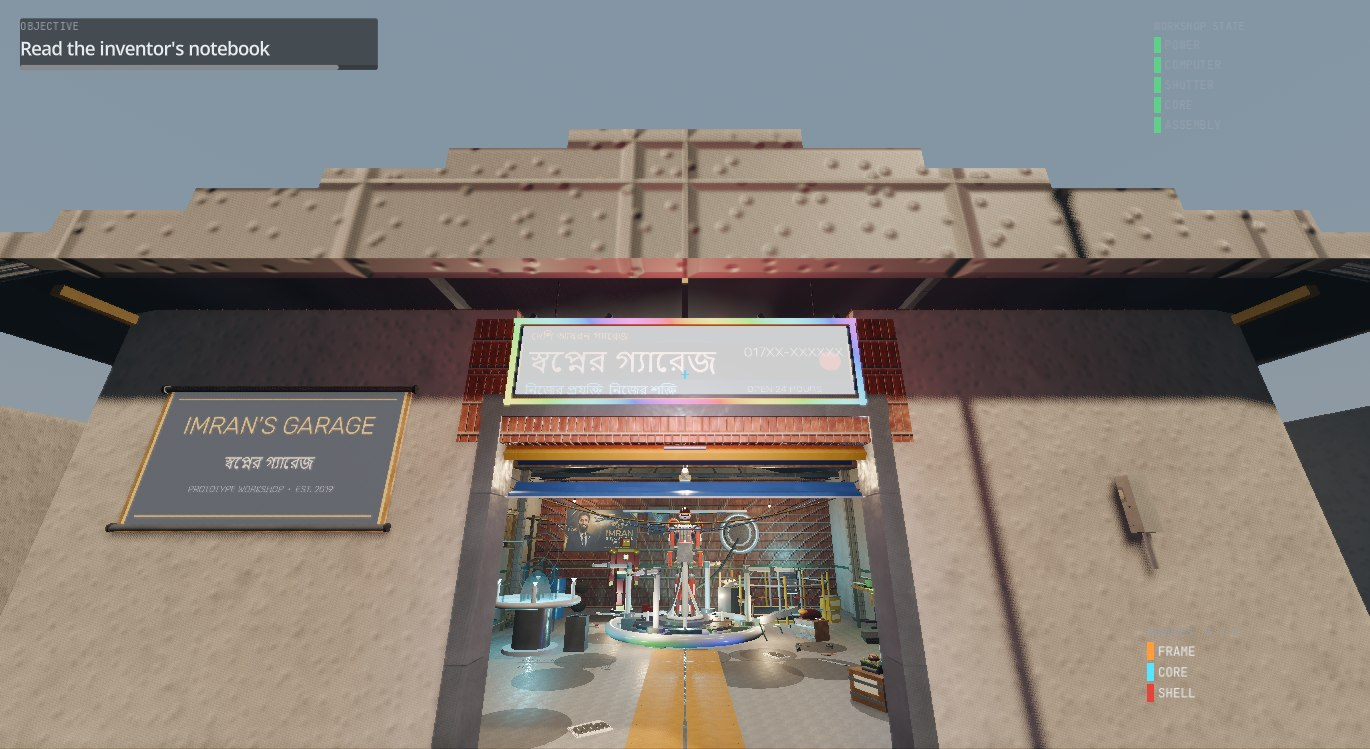
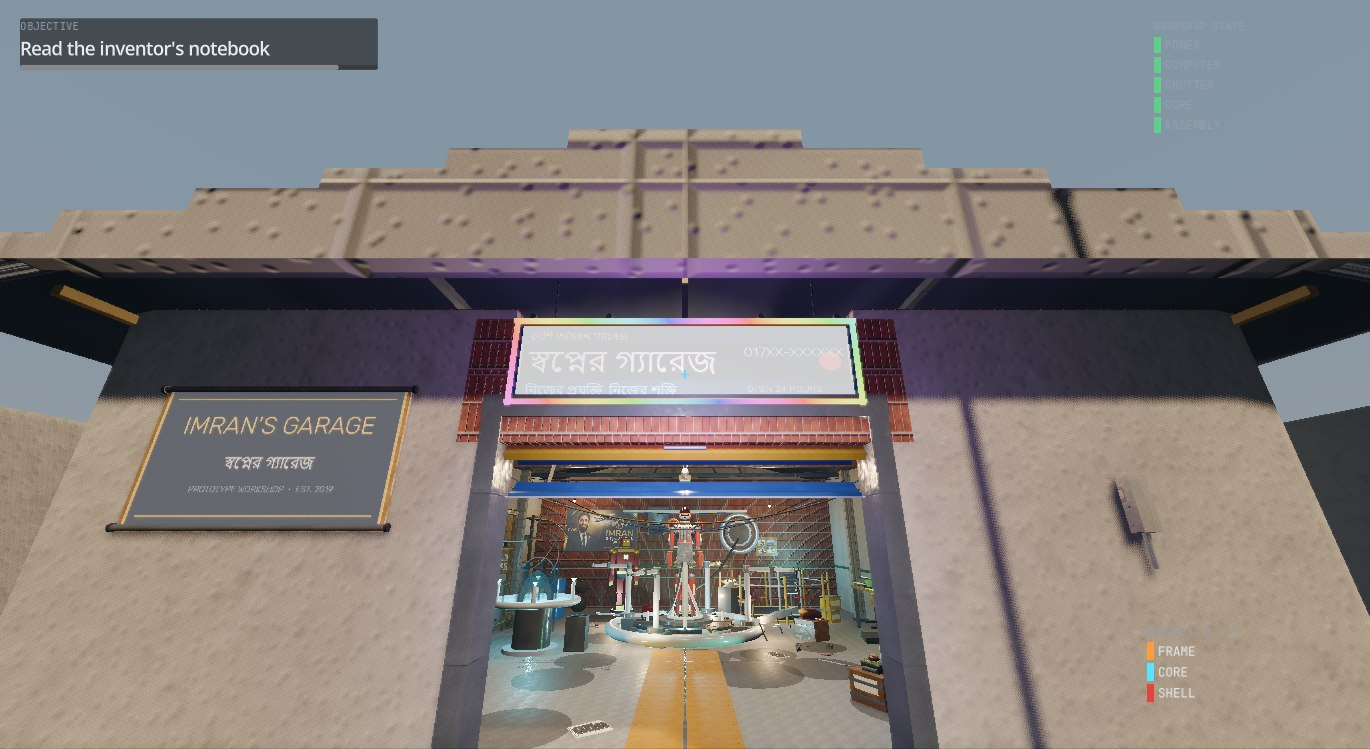
Realism pass: per-material gloss, wider SSAO, and two more licensed photo boards
The gloss, fixed properly. The previous pass multiplied every surface recipe's
roughness by one global number and made plaster read like plastic. Roughness now
depends on the material family — masonry and packed earth stay matte (0.95),
worn/sealed concrete is lightly polished (0.62), varnished teak and plywood
0.50, steel/rust/brass 0.45, paint and plastic 0.42 — so the floor still catches
the platform's lights while the walls read like walls. SSAO widened 0.42 -> 0.5
and strengthened 1.15 -> 1.25 for firmer contact shadows.

On "1000 pictures from online": not done, deliberately. Bulk-downloading a
thousand arbitrary images would be licence-unsafe for a public repo, bloat it by
~100-200 MB, and buy nothing the garage can use — plus Wikimedia now refuses
this machine's fetches outright (both direct and over WARP; their WAF flagged
the earlier runs). What shipped instead: ten more community-licensed photographs,
fetched through the Openverse API with a CC0/BY/BY-SA licence filter — Dhaka
streets, rickshaws, a tea counter, Keane Bridge with Ali Amjad's clock, traffic,
a Sundarbans boat, the Ashulia brickfields, a Rana Plaza survivor tailoring, a
Snake Charmer and a farmer — attributed file-by-file in ASSET_LICENSES.md with
their Flickr landing pages. They hang as two more pinned boards: six in the
assembly bay (west wall), four by the testing corner (north wall).

One bug caught on the way: the boards' placement block initially landed after a
[…]

diff --git a/docs/EXPERIMENTS.md b/docs/EXPERIMENTS.md
@@ -378,33 +378,33 @@ performance work.
 
 | Step | Time | Share | What dominates |
 |---|---|---|---|
-| Surface synthesis (first surface) | 272 ms | 2.0% | the per-texel loop |
-| Structure — floor, walls, columns, roof, shutter, entrance apron, windows | 6 313 ms | 46.2% | mesh generation, collision shapes, and the surfaces it requests |
-| Environment — sky, `WorldEnvironment`, 29 lights, dust, rain | 74 ms | 0.5% | negligible |
-| Dressing — 197 placements, 59 stations, 4 layout groups, cables, signage, grime decals, wall plaques, flag, coin, always-on bulbs, wall maps, the sign's RGB rig, photographs, the notice wall, the faked-wear overlays, the armour | 6 716 ms | 49.2% | prop construction, station wiring, and its surfaces |
-| Screens — 5 live `SubViewport`s and their materials | 81 ms | 0.6% | — |
-| Player — camera, ray, reticle, collision | 29 ms | 0.2% | — |
-| Interface — HUD, 10 panels, objective director | 170 ms | 1.2% | — |
-| **Total** | **13 655 ms** | **100%** | |
+| Surface synthesis (first surface) | 354 ms | 2.2% | the per-texel loop (262–283 ms on quiet runs) |
+| Structure — floor, walls, columns, roof, shutter, entrance apron, windows | 7 637 ms | 47.5% | mesh generation, collision shapes, and the surfaces it requests |
+| Environment — sky, `WorldEnvironment`, 29 lights, dust, rain | 73 ms | 0.5% | negligible |
+| Dressing — 199 placements, 61 stations, 4 layout groups, cables, signage, grime decals, wall plaques, flag, coin, always-on bulbs, wall maps, the sign's RGB rig, photographs, the notice wall, the two photo boards, the faked-wear overlays, the armour | 7 710 ms | 47.9% | prop construction, station wiring, and its surfaces |
+| Screens — 5 live `SubViewport`s and their materials | 84 ms | 0.5% | — |
+| Player — camera, ray, reticle, collision | 33 ms | 0.2% | — |
+| Interface — HUD, 10 panels, objective director | 196 ms | 1.2% | — |
+| **Total** | **16 087 ms** | **100%** | |
 
 **Dressing breakdown, `GarageDressing.dressing_breakdown()`**
 
 | | |
 |---|---|
-| Props placed by the dressing pass | 197 |
-| Props built in total (includes module payloads and suit parts) | 203 |
+| Props placed by the dressing pass | 199 |
+| Props built in total (includes module payloads and suit parts) | 205 |
 | Distinct prop kinds | 140 |
-| Authored placements | 165 |
+| Authored placements | 167 |
 | Procedural placements | 22 (4 groups: 6 + 5 + 6 + 5) |
 | Wall-rack placements | 10 |
-| Mesh cache hits / misses | 1 833 / 1 174 |
+| Mesh cache hits / misses | 1 843 / 1 176 |
 | Rejection-sampler efficiency | 46% of attempts produce a placement |
 
-The counts above are from the shipped build. The per-step times are from the latest capture run;
-the same garage measured 11 762 ms, 11 716 ms, 11 509 ms and 11 015 ms across quieter runs earlier
-in the day, so treat absolute milliseconds as load-dependent — they drift by about 20% when
-something else is using the laptop — and the shares as the finding. This is worth stating rather than
-pretending the machine is a benchmark rig.
+The counts above are from the shipped build. The per-step times are from the latest capture run —
+which ran while the machine was loaded, hence the 16.1 s total; the same garage measured 11 762 ms,
+11 716 ms, 11 509 ms and 11 015 ms across quieter runs earlier in the day, and the drift is about 20%
+when something else is using the laptop. Treat the shares as the finding. This is worth stating
+rather than pretending the machine is a benchmark rig.
 
 **Finding 7.1 — surface synthesis dominates the wall clock.** The first surface costs 262–283 ms on
 quiet runs in step 0; the other 33 are synthesised lazily inside the structure and dressing steps. At
@@ -413,8 +413,8 @@ left is moving that per-texel loop to a compute shader, not reducing geometry. T
 13 × 16.5 m room measured 71%; the share rose when the room shrank, because the texture cost is per
 *surface*, not per cubic metre.
 
-**Finding 7.2 — mesh caching is what makes 203 props affordable.** 1 174 distinct meshes serve 197
-placed props through 1 833 hits. Without the cache every spanner, capacitor and bolt would allocate
+**Finding 7.2 — mesh caching is what makes 205 props affordable.** 1 176 distinct meshes serve 199
+placed props through 1 843 hits. Without the cache every spanner, capacitor and bolt would allocate
 its own `BoxMesh`; with it, forty spanners share one. This is also why the frame time is as low as it
 is — shared meshes are candidates for batching in a way that per-instance geometry is not.
 
@@ -557,7 +557,7 @@ mathematically on the ground — and only the joint reading of numbers and pixel
 11. The per-texel composition loop is the surface-synthesis bottleneck, not the noise generation;
     moving from 512 px to 256 px halved the load time with no visible loss because tiling hides the
     missing resolution. (§1.1)
-12. Mesh caching at 1.6:1 reuse is what makes 203 props affordable. (§7.2)
+12. Mesh caching at 1.6:1 reuse is what makes 205 props affordable. (§7.2)
 13. Two-thirds of the total build is structure and dressing geometry. (§7.4)
 14. A state the build writes itself cannot be used to audit the build: the restore replay read
     `GameState` back and re-applied the still-running build's own writes, killing the new auto-open on

diff --git a/docs/ASSET_LICENSES.md b/docs/ASSET_LICENSES.md
@@ -10,9 +10,10 @@ records exactly what came from where, and under what terms.
 
 | Category | Count | Origin | Licence |
 |---|---|---|---|
-| 3D meshes | 1 174 distinct, 197 placed | **Generated at runtime** by `ShapeKit` and the prop catalogues | Original work, same licence as the source |
+| 3D meshes | 1 176 distinct, 199 placed | **Generated at runtime** by `ShapeKit` and the prop catalogues | Original work, same licence as the source |
 | Photographs (5) | Wall art from `assets/textures/user/` | **Supplied by the author** for in-world frames | Loaded with `Image.load_from_file()`, no import side files; the locomotive and clock images are also published on Wikimedia Commons — pin their exact licences before wider redistribution |
 | Photographs (13) | The notice-wall collage, `assets/textures/wall/` | **Wikimedia Commons, CC BY-SA 4.0**, fetched through the Commons API and resized to 480 px | Every file, author and source page is listed below |
+| Photographs (10) | The two smaller boards — the streets and the working country | **Openverse (Flickr originals), CC0 / CC BY 2.0 / CC BY-SA 2.0**, fetched through the Openverse API, licence-filtered, resized to 480 px | Every file, author and source page is listed below |
 | Texture images | 34 surface sets × 3 channels = 102 images | **Synthesised at runtime** by `TextureFactory` | Original work |
 | Supplied photograph | 1 image (127 KB) | **Provided by the project's author** — the workshop banner hung on the north wall | Author's own work, used with the author's permission |
 | Audio | every clip | **Synthesised at runtime** by `AudioSynth` | Original work; no recorded music and no musical instruments anywhere — the ambience is wind, leaves, sparrows, the street and the rain |
@@ -34,8 +35,8 @@ catalogues.
 Two mechanisms are used:
 
 **Engine primitives, parameterised.** Godot's `BoxMesh`, `CylinderMesh`, `SphereMesh`, `TorusMesh`,
-`PlaneMesh` and `CapsuleMesh` are configured per prop and cached by dimensions. 1 174 distinct
-configured meshes serve 197 placed props through 1 833 cache hits in the shipped room.
+`PlaneMesh` and `CapsuleMesh` are configured per prop and cached by dimensions. 1 176 distinct
+configured meshes serve 199 placed props through 1 843 cache hits in the shipped room.
 
 **The notice-wall photographs.** Thirteen files from Wikimedia Commons, fetched through the Commons
 API, each checked to carry a CC BY-SA 4.0 licence before download, then resized to 480 px for the
@@ -61,6 +62,28 @@ Two file pages are linked through a Commons search because their titles carry Be
 fetch pipeline could not round-trip; both are CC BY-SA 4.0 and their authors are as shown on the
 pages. CC BY-SA 4.0 requires attribution and share-alike for derivatives — the credits here are that
 attribution, and any redistribution of the collage keeps this file with it.
+
+**The Openverse photographs.** Ten more files for the two smaller boards, fetched through the
+Openverse API (`api.openverse.org`), licence-filtered to CC0 / CC BY / CC BY-SA, then resized to
+480 px. Wikimedia's WAF began refusing this machine's fetches midway through the project, so
+Openverse — which indexes the same kinds of Flickr originals — is the source for this batch. Authors
+and landing pages as recorded on the API's response:
+
+| In-game file | Title | Author | Licence | Source |
+|---|---|---|---|---|
+| `wall_21.jpg` | Streetside scenes | -Niloy- | CC BY 2.0 | [Flickr](https://www.flickr.com/photos/63369436@N00/46729199) |
+| `wall_22.jpg` | Dhaka Rickshaw | Gary Lee Todd, Ph.D. | CC0 1.0 | [Flickr](https://www.flickr.com/photos/101561334@N08/39795792142) |
+| `wall_23.jpg` | After Ifter at Barista. | Andalib. | CC BY 2.0 | [Flickr](https://www.flickr.com/photos/77568842@N08/7796814912) |
+| `wall_24.jpg` | Keane Bridge & Clock Of Ali Amjad | ~~ `Nostalgia' ~~ | CC BY 2.0 | [Flickr](https://www.flickr.com/photos/15433877@N07/2766696675) |
+| `wall_25.jpg` | Snake Charmer | Jorge Lascar | CC BY 2.0 | [Flickr](https://www.flickr.com/photos/8721758@N06/4499194699) |
+| `wall_26.jpg` | Dhaka traffic dynamics | Ahron de Leeuw | CC BY 2.0 | [Flickr](https://www.flickr.com/photos/53848312@N00/1568681602) |
+| `wall_27.jpg` | On a Sundarbans Boat | Mike Prince | CC BY 2.0 | [Flickr](https://www.flickr.com/photos/70804987@N00/16571997796) |
+| `wall_28.jpg` | Welcome to Ashulia brickfield | joiseyshowaa | CC BY-SA 2.0 | [Flickr](https://www.flickr.com/photos/30201239@N00/3373611632) |
+| `wall_29.jpg` | Helping Khaleda, one of the survivors of Rana Plaza | DFID — UK Department for International Development | CC BY 2.0 | [Flickr](https://www.flickr.com/photos/14214150@N02/14008308964) |
+| `wall_32.jpg` | A Village Farmer in Bangladesh (title carries Bengali script) | Ahsan Ovi Photography | CC0 1.0 | [Flickr](https://www.flickr.com/photos/149196903@N02/34308123365) |
+
+CC BY and CC BY-SA require attribution; the credits here are that attribution, and any redistribution
+of the boards keeps this file with them.
 
 **Geometry generated from parameters.** Where a primitive is insufficient, the mesh is built with
 `SurfaceTool` or `ArrayMesh` from parameters:

diff --git a/docs/SYSTEM_ARCHITECTURE.md b/docs/SYSTEM_ARCHITECTURE.md
@@ -50,7 +50,7 @@ to catch the first.
     ├── Carry                    (Node)     CarrySystem: mouse pick-up / place / rotate / put back
     ├── Garage                   (Node3D)   GarageStructure: floor, walls, columns, roof, shutter frame
     ├── Environment              (Node3D)   GarageEnvironment: WorldEnvironment, 37 lights, dust, rain
-    ├── Dressing                 (Node3D)   GarageDressing: 197 props, 59 stations, cables, signage, decals
+    ├── Dressing                 (Node3D)   GarageDressing: 199 props, 61 stations, cables, signage, decals
     │
     ├── area volumes ×6          (Area3D)   named rooms; group "garage_areas"
     ├── Player                   (CharacterBody3D)
@@ -82,16 +82,16 @@ progress.
 
 | Step | What it does | Measured (UHD 620) |
 |---|---|---|
-| 0 | `MaterialLibrary.ensure_built()`, first surface synthesised | 272 ms for one 256 px surface (262–283 on quiet runs) |
-| 1 | `GarageStructure.build()` — floor, plinths, courtyard, walls, columns, roof, shutter frame, entrance apron, windows | 6 313 ms |
-| 2 | `GarageEnvironment.build()` — sky, WorldEnvironment, 29 lights in 4 circuits, dust, rain (the five always-on bulbs and the sign's RGB rig are registered by the dressing, each light attached to its own prop) | 74 ms |
-| 3 | `GarageDressing.dress()` — 5 areas, 4 procedural layout groups, 2 wall racks, cables, signage, the always-on bulbs, the wall maps, the sign's RGB rig, the photographs, the notice wall, the faked-wear overlays, the armour | 6 716 ms |
+| 0 | `MaterialLibrary.ensure_built()`, first surface synthesised | 354 ms for one 256 px surface in the loaded final run (262–283 on quiet runs) |
+| 1 | `GarageStructure.build()` — floor, plinths, courtyard, walls, columns, roof, shutter frame, entrance apron, windows | 7 637 ms |
+| 2 | `GarageEnvironment.build()` — sky, WorldEnvironment, 29 lights in 4 circuits, dust, rain (the five always-on bulbs and the sign's RGB rig are registered by the dressing, each light attached to its own prop) | 73 ms |
+| 3 | `GarageDressing.dress()` — 5 areas, 4 procedural layout groups, 2 wall racks, cables, signage, the always-on bulbs, the wall maps, the sign's RGB rig, the photographs, the notice wall, the two photo boards, the faked-wear overlays, the armour | 7 710 ms |
 | 4 | Area volumes | — |
-| 5 | Live `SubViewport`s for 5 screens, attached to their materials | 81 ms |
-| 6 | Player, camera, ray, reticle, collision, capsule sizing | 29 ms |
-| 7 | HUD, all panels, `ObjectiveDirector`, `start()` | 170 ms |
+| 5 | Live `SubViewport`s for 5 screens, attached to their materials | 84 ms |
+| 6 | Player, camera, ray, reticle, collision, capsule sizing | 33 ms |
+| 7 | HUD, all panels, `ObjectiveDirector`, `start()` | 196 ms |
 | 8 | `_apply_restored_state()` — replays a saved run with `instant = true` | — |
-| | **total** | **13 655 ms** (11 015–13 655 ms across the day, by machine load) |
+| | **total** | **16 087 ms** (11 015–16 087 ms across the day, by machine load) |
 
 Surfaces are synthesised **lazily**, on first request. Loading every recipe up front would cost
 roughly 9.5 s for all 34 at 256 px; the garage actually touches 34 of them, so the saving is in the
@@ -169,7 +169,7 @@ per texel into colour/roughness/metallic/occlusion/height, pack to RGB8 byte buf
 tangent-space normal by Sobel gradient on the wrapped height field, upload in one
 `Image::create_from_data` per channel. See `docs/GRAPHICS_ALGORITHMS.md` §2.
 
-**`shape_kit.gd`** — the primitive composition layer, and the reason 203 props is affordable. Two
+**`shape_kit.gd`** — the primitive composition layer, and the reason 205 props is affordable. Two
 ideas: a mesh cache keyed on dimensions so forty spanners share one mesh, and true generators (lathe
 from a profile, gear from tooth count and module, tube sweep, coil, chain, plate) for the shapes that
 are not primitives. Also `shape_aabb_local()`, `area_aabb()` and `node_bounds()`, which exist because

diff --git a/docs/PROJECT_OVERVIEW.md b/docs/PROJECT_OVERVIEW.md
@@ -137,7 +137,7 @@ recorded in `docs/ASSET_LICENSES.md`.
 |---|---|
 | First-person controller | WASD, mouse look, sprint, crouch-walk, gravity, jump, distance-driven head bob, material-aware footsteps |
 | Interaction | Raycast focus with a bounding-box reticle, contextual prompts, E to operate, F to inspect |
-| Interactable stations | 59 registered, across 20 behaviour kinds |
+| Interactable stations | 61 registered, across 20 behaviour kinds |
 | Power | 4 circuits, sequential energisation, tube strike simulation, live circuit isolation from the MCB row |
 | Workstation | 6-section `Control`-built interface reading live simulation state, with a POST → login → ready boot |
 | In-world screens | 5 screen meshes, 5 live `SubViewport`s, temperature-graded CRT and LCD glass shader |
@@ -156,7 +156,7 @@ recorded in `docs/ASSET_LICENSES.md`.
 | Faked wear | Flush overlays and chips that make the room read used: painted tool outlines on the pegboard, chalk dimension notes on the floor, tea rings and an old spill on the bench top, a six-row paper label strip on the component drawers, and a scatter of stickers — no props, no stations, no lights |
 | Sound | Every clip synthesised as PCM at load — no sound packs. Surface-aware footsteps (concrete, steel deck, packed earth), tools, servos, the shutter's chain rattle — and an instrument-free nature ambience (wind, leaves, sparrows) as the project's music, from the title screen on |
 | Armour | A whole red-and-gold armoured figure on a service base by the north wall — core lens and eye slits lit — with its spare helmet, chest plate, gauntlet and boot laid out where they are worked on; procedurally built, deliberately unbranded, every piece pickable |
-| Global gloss | Every surface recipe multiplies its roughness down to 0.58, so painted steel, sealed concrete and varnished teak catch the room's lights and the SSR has something to work with |
+| Global gloss | Surface gloss is per material family, not one global number: masonry and earth stay matte, the sealed concrete floor is lightly polished, varnished wood and paint are glossy, bare metal most of all — and the SSAO runs wider and heavier so contact shadows hold the room together |
 | Auto-opening gate | The shutter's presence sensor rolls the curtain up as anyone approaches the courtyard — it starts most of the way down and the room wakes up as it lifts. It can no longer be lowered |
 | Always-on bulbs | Five bare bulbs — walk lane, both benches, the testing corner, the store — are wired ahead of the switchboard to the incoming line, outside every switchable circuit: the room is never dark, even at the start, and each bulb carries its own light when you pick it up |
 | Entrance | A concrete apron ramps the doorway down to the packed earth so the shop can be walked into and out of without breaking stride, and the courtyard is walled in — walking past the street wall or the neighbour walls stops you instead of dropping you out of the world |
@@ -205,9 +205,9 @@ assembly sequence. That is the localisation requirement, implemented as configur
 
 On Intel UHD 620 at 1600×900, Forward+:
 
-- Garage build: **13.7 s** in the latest run (6.3 s structure, 6.7 s dressing for 197
-  placements; the same build has measured 11.0–13.7 s across earlier runs — machine load moves it;
-  most of the total is surface synthesis, spread across both steps)
+- Garage build: **16.1 s** in the latest loaded run (11.0 s when quiet; 7.6 s structure, 7.7 s
+  dressing for 199 placements in the loaded run; machine load moves it — the same build has measured
+  11.0–16.1 s across the day; most of the total is surface synthesis, spread across both steps)
 - Medium preset: 40–55 fps measured before the preset retune — SDFGI and volumetric fog off, SSR on,
   five shadow casters; the retune cut a further 13–27 ms of CPU frame time (`docs/EXPERIMENTS.md` §7.5)
 - High preset: 18–26 fps measured before the retune, all global-illumination features on, seven casters

diff --git a/README.md b/README.md
@@ -202,10 +202,10 @@ geometry, not asserted in text.
   controller** moves the render scale inside 0.55–0.85 to hold a comfortable frame rate on whatever
   machine the build finds itself on (`docs/EXPERIMENTS.md` §7.5).
 - Post-processing: AgX tonemapping, thresholded bloom, SSAO, SSR, SDFGI, volumetric fog, exponential
-  distance fog, colour adjustment. Every one of them is a live switch in the graphics bench. Every
-  surface recipe ships with a **global gloss pass** — roughness is multiplied down to 0.58, so painted
-  steel, sealed concrete and varnished teak actually catch the room's lights and the screen-space
-  reflections have something to work with.
+  distance fog, colour adjustment. Every one of them is a live switch in the graphics bench. Surface
+  gloss is **per material family**, not one global number: masonry and earth stay matte, the sealed
+  concrete floor is lightly polished, varnished wood and paint are glossy, bare metal most of all, and
+  the SSAO is tuned a touch wider and heavier so contact shadows hold the room together.
 - **A house armour project.** A whole red-and-gold armoured figure on a service base by the north
   wall — core lens and eye slits lit — with its spare helmet, chest plate, gauntlet and boot laid out
   where they are worked on. Procedurally built, deliberately unbranded, and every piece individually
@@ -287,13 +287,13 @@ in-world graphics bench. These are the numbers the application reports about its
 
 | Measurement | Value |
 |---|---|
-| Full garage build | ≈ 11–14 s (13.7 s in the latest run — the same build has measured 11.0 s on quieter runs; machine load moves it) |
+| Full garage build | ≈ 11–16 s by machine load (16.1 s in the latest loaded run; 11.0 s when quiet) |
 | Surface synthesis, first 256 px surface | 262–283 ms on quiet runs |
-| Props placed | 197 (203 built, 140 kinds) |
-| Interactive stations | 59 |
+| Props placed | 199 (205 built, 140 kinds) |
+| Interactive stations | 61 |
 | Registered lights | 37 (of which shadow casters: 7) |
 | Live screen SubViewports | 5 |
-| Mesh cache | 1833 hits, 1174 misses |
+| Mesh cache | 1843 hits, 1176 misses |
 | CPU loop, headless (script side, no GPU work) | 7.9 ms per frame (127 fps) |
 | Adaptive resolution | on by default: render scale 0.55–0.85, ±0.05 per second, holding worst-case frames under 24 ms |
 | Frame rate | interactive only: the automated capture session's window presentation is capped at 7.5 Hz regardless of load (see `docs/EXPERIMENTS.md` §7.5), so frame rates are read from the in-app bench (F6). The retune cut 13–27 ms of CPU frame time against the earlier settings |

diff --git a/docs/USER_MANUAL.md b/docs/USER_MANUAL.md
@@ -268,7 +268,9 @@ older batch of students around a half-stripped television — the team photo lea
 the exosuit concept poster on the wall the assembly stand faces, and a desk flag on the electronics
 bench. At the entrance, a plywood board pins thirteen pictures of the country itself — rickshaws,
 markets, tea gardens, boats, paddy — the community-licensed set whose credits are listed in
-`docs/ASSET_LICENSES.md`. And the room keeps the marks of work: painted tool outlines on the
+`docs/ASSET_LICENSES.md`; two more boards hang in the assembly bay and by the testing corner with ten
+more licensed pictures of the streets and the working country. And the room keeps the marks of work:
+painted tool outlines on the
 pegboard, chalk notes on the floor, tea rings on the bench top, paper labels on the drawers, a
 grease handprint on the apron, a paint-test board, stickers — and a whole red-and-gold armoured
 figure on a service base by the north wall, its spare plates laid out where they are worked on.

diff --git a/docs/RESEARCH_METHODOLOGY.md b/docs/RESEARCH_METHODOLOGY.md
@@ -212,7 +212,7 @@ The traceability is explicit:
 | Bundling saves draw calls | `CableGenerator.generate_bundle()` — one `SurfaceTool`, one `commit()` |
 | Seven shadow casters of 37 lights | `GarageEnvironment` and the dressing register 37; the bench reports the caster count |
 | Shutter drives the daylight | `GarageEnvironment.set_shutter_influence()`, called from `GarageWorld._process()` |
-| 203 props built, 140 kinds | `GarageWorld.build_report()` |
+| 205 props built, 140 kinds | `GarageWorld.build_report()` |
 | Screen content reads the simulation | `ScreenContent._snapshot()`, called by every screen and every panel |
 | The A/B performance harness | `GarageWorld._perf_process()` (`perf.flag`), reported in `docs/EXPERIMENTS.md` §7.5 |
 

diff --git a/docs/GRAPHICS_ALGORITHMS.md b/docs/GRAPHICS_ALGORITHMS.md
@@ -514,8 +514,8 @@ that darkens distant sources.
 
 ### 8.1 Mesh caching
 
-`ShapeKit` keys every primitive on its dimensions and reuses the mesh. The garage builds 203 props
-from **1 174 distinct meshes** with **1 833 cache hits** — a 1.6:1 reuse ratio, which is the difference
+`ShapeKit` keys every primitive on its dimensions and reuses the mesh. The garage builds 205 props
+from **1 176 distinct meshes** with **1 843 cache hits** — a 1.6:1 reuse ratio, which is the difference
 between a scene that runs on integrated graphics and one that does not.
 
 ### 8.2 Generators rather than primitives
